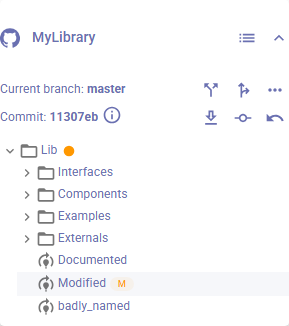
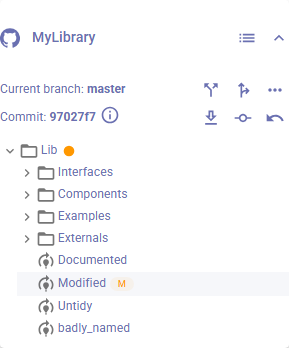
Two more documentation images, and one that cannot be taken from here
settings-reference-7 wanted the Code Review page reporting *layout* findings,
which nothing in the fixture broke. It now holds Lib.Untidy - an import after a
declaration and three public sections where one would do - and the repository's
own settings turn the two layout rules on, so the page reports "does not have
its import statements before the rest of the class definition" and "contains
more than 1 public section" against a class whose names and documentation are
fine. That is the distinction the settings documentation is drawing.

file-monitoring-1 wanted the refresh button with changes waiting behind it: the
monitor is started and three files are edited on disk from outside MLQT, which
is what the red badge counts.

git-operations-6 was tried and abandoned, with something learnt. The merge
dialog's ready-to-merge phase needs a clean working copy, and committing the
fixture's change through git at the very end is not enough - MLQT holds the
working-copy status it last read, and only a VCS operation in the application
makes it read again. That is reasonable behaviour and it leaves no route to the
picture from a screenshot run, so it stays a photograph and the backlog says why.

41 of the 53 images are now generated. The 12 that are not: two need Dymola, six
need an SVN server, one is an SVN-only settings section, one is the merge phase
above, and two are on disk referenced by nothing.

diff --git a/MLQT.Journeys/DocumentationScreenshots.cs b/MLQT.Journeys/DocumentationScreenshots.cs
@@ -60,6 +60,9 @@ public class DocumentationScreenshots(TestHostFixture host) : IDisposable
     /// </remarks>
     private LibraryFixture? _library;
 
+    /// <summary>The repository MLQT knows the fixture by, for the scenes that drive services.</summary>
+    private string? _repositoryId;
+
     public void Dispose() => _library?.Dispose();
 
     /// <summary>Where to write them, or null when nobody asked.</summary>
@@ -127,6 +130,9 @@ public class DocumentationScreenshots(TestHostFixture host) : IDisposable
         await RepositorySettingsAsync(page);
         await GitOperationsAsync(page);
         await AddingARepositoryAsync(page);
+
+        // Last, because it leaves changes waiting that nothing else wants to see.
+        await PendingChangesAsync(page);
     }
 
     // ---------------------------------------------------------------- the scenes
@@ -168,6 +174,12 @@ public class DocumentationScreenshots(TestHostFixture host) : IDisposable
 
         // The formatting-exclusion toggle, in the second group beside the annotations button.
         await ShotAroundAsync(page, Right(page).Locator(".mud-button-group-root").Nth(1), "settings-reference-5");
+
+        // The layout rules reporting, which is a different picture from the one above: a class whose
+        // names and documentation are fine and whose sections are not.
+        await SelectAClassAsync(page, "Untidy");
+        await ShotAsync(page, "settings-reference-7");
+        await SelectAClassAsync(page);
 
         // code-review-5, the Finding Details dialog, is not taken here and cannot be: it opens only
         // for a finding that carries Details, and a style rule does not produce one - the dialog's
@@ -329,6 +341,33 @@ public class DocumentationScreenshots(TestHostFixture host) : IDisposable
     }
 
     /// <summary>
+    /// The refresh button with changes waiting behind it.
+    /// </summary>
+    /// <remarks>
+    /// The badge is the file monitor's count, so the files have to be changed the way the monitor
+    /// hears about it - written on disk by something that is not MLQT - and the monitor has to be
+    /// running, which the screenshot run turns off when it adds the repository so that nothing moves
+    /// under the earlier pictures.
+    /// </remarks>
+    private async Task PendingChangesAsync(IPage page)
+    {
+        var monitor = host.Services.GetRequiredService<IFileMonitoringService>();
+        monitor.StartMonitoring(_repositoryId!, _library!.RepositoryPath);
+
+        foreach (var file in new[] { "Documented.mo", "Interfaces/Pin.mo", "Components/Load.mo" })
+            _library.TouchOutsideMlqt(file);
+
+        // The monitor debounces, and the badge is drawn when it reports - so this waits for the
+        // number to appear rather than for a length of time.
+        await page.Locator(".mud-badge").First.WaitForAsync(new LocatorWaitForOptions { Timeout = 30_000 });
+        await page.WaitForTimeoutAsync(1500);
+
+        await ShotAroundAsync(page, LeftToolbar(page), "file-monitoring-1");
+
+        monitor.StopMonitoring(_repositoryId!);
+    }
+
+    /// <summary>
     /// The Add Repository dialog, in both of its two ways of naming a repository.
     /// </summary>
     /// <remarks>
@@ -342,7 +381,8 @@ public class DocumentationScreenshots(TestHostFixture host) : IDisposable
         await OpenTabAsync(page, CodeTab);
 
         await ShellReadiness.WaitUntilClickableAsync(page);
-        await LeftToolbar(page).Locator("button").First.ClickAsync();
+        var addRepository = LeftToolbar(page).Locator("button").First;
+        await addRepository.ClickAsync();
         await page.WaitForTimeoutAsync(1500);
 
         var dialog = page.Locator(".mud-dialog").Last;
@@ -364,6 +404,10 @@ public class DocumentationScreenshots(TestHostFixture host) : IDisposable
         await ShotOfAsync(dialog, "getting-started-6");
 
         await CloseTheDialogAsync(page);
+
+        // The mouseleave the dialog swallowed, as everywhere else a dialog opens under the pointer.
+        await addRepository.HoverAsync();
+        await page.Mouse.MoveAsync(0, 0, new MouseMoveOptions { Steps = 8 });
     }
 
     /// <summary>
@@ -379,9 +423,12 @@ public class DocumentationScreenshots(TestHostFixture host) : IDisposable
     /// position, and why a changed row order shows up as a picture of the wrong dialog rather than as
     /// an error. Each shot asserts the dialog opened, so that failure is loud.</para>
     ///
-    /// <para><b>git-operations-6 and -10 are not here</b>: the ready-to-merge phase of the merge
-    /// dialog needs a clean working copy, which would cost the uncommitted change every other picture
-    /// uses, and the revision diff needs two revisions of a file the fixture only has one of.</para>
+    /// <para><b>git-operations-6 is not here.</b> The merge dialog's ready-to-merge phase needs a
+    /// clean working copy, and committing the fixture's change - through git, at the end, after
+    /// everything that wanted it - is not enough: MLQT holds the working-copy status it last read,
+    /// and nothing short of a VCS operation *in the application* makes it read again, which is
+    /// reasonable behaviour and leaves no way to reach the picture from here. It stays a
+    /// photograph.</para>
     /// </remarks>
     private async Task GitOperationsAsync(IPage page)
     {
@@ -660,6 +707,7 @@ public class DocumentationScreenshots(TestHostFixture host) : IDisposable
 
         var added = await repositories.AddRepositoryAsync(_library!.RepositoryPath, name: "MyLibrary", startMonitoring: false);
         Assert.True(added.Success, added.ErrorMessage);
+        _repositoryId = added.Repository!.Id;
 
         // Adding a repository *discovers* its libraries; loading them is a second step, because the
         // Add Repository dialog lets the user choose which of them to open. Null means all of them,
@@ -702,8 +750,9 @@ public class DocumentationScreenshots(TestHostFixture host) : IDisposable
     /// <para>Written as <c>.mlqt/settings.json</c> before the repository is added, which is where
     /// <c>RepositoryService</c> reads it from. The findings in the picture are then the application's
     /// own, produced by its own pipeline from its own configuration - not a list this class handed
-    /// it. Three rules, chosen because the fixture library breaks all three and because they are the
-    /// ones a new user turns on first.</para>
+    /// it. Five rules, chosen because the fixture library breaks all five: three about names and
+    /// descriptions, which are the ones a new user turns on first, and two about layout, which are
+    /// what settings-reference.md shows being reported.</para>
     /// </remarks>
     private void EnableSomeRules()
     {
@@ -715,7 +764,9 @@ public class DocumentationScreenshots(TestHostFixture host) : IDisposable
               "RuleSeverities": {
                 "MLQT.Doc.ClassDescription": "Warning",
                 "MLQT.Doc.ParameterDescription": "Error",
-                "MLQT.Naming.Convention": "Warning"
+                "MLQT.Naming.Convention": "Warning",
+                "MLQT.Style.ImportStatementsFirst": "Warning",
+                "MLQT.Style.OneOfEachSection": "Warning"
               }
             }
             """);

diff --git a/MLQT.Journeys/LibraryFixture.cs b/MLQT.Journeys/LibraryFixture.cs
@@ -114,7 +114,7 @@ public sealed class LibraryFixture : IDisposable
             end Lib;
             """);
 
-        Write("package.order", "Interfaces\nComponents\nExamples\nExternals\nDocumented\nModified\nBadlyNamed\n");
+        Write("package.order", "Interfaces\nComponents\nExamples\nExternals\nDocumented\nModified\nBadlyNamed\nUntidy\n");
 
         Write("Documented.mo", """
             within Lib;
@@ -145,6 +145,30 @@ public sealed class LibraryFixture : IDisposable
             equation
               der(z) = -z;
             end badly_named;
+            """);
+
+        // Laid out the way the layout rules would rather it was not: an import after a declaration,
+        // and three public sections where one would do. Nothing here is a *naming* or *documentation*
+        // problem, so it only reports when those rules are switched on - which is the distinction the
+        // settings documentation is trying to draw when it shows this class.
+        Write("Untidy.mo", """
+            within Lib;
+            model Untidy "A class the layout rules have something to say about"
+              Real a "The first state";
+              import Lib.Interfaces.Pin;
+            public
+              Real b "The second state";
+            protected
+              Real c "One nobody outside can see";
+            public
+              Real d "A third state, in a second public section";
+            equation
+              der(a) = -a;
+              der(b) = -b;
+              der(c) = -c;
+              der(d) = -d;
+              annotation(Documentation(info="<html><p>Untidy on purpose.</p></html>"));
+            end Untidy;
             """);
 
         WriteInterfaces();
@@ -356,6 +380,15 @@ public sealed class LibraryFixture : IDisposable
         // is about.
         repo.Branches.Add("feature/pump-curves", first);
     }
+
+    /// <summary>Touches a file under the library, the way a user editing it outside MLQT would.</summary>
+    /// <remarks>
+    /// A trailing comment: it changes the file's bytes and its timestamp, which is what the monitor
+    /// watches, and leaves the Modelica in it valid, which is what everything downstream needs.
+    /// </remarks>
+    public void TouchOutsideMlqt(string relativePath) =>
+        File.AppendAllText(Path.Combine(LibraryPath, relativePath),
+                           "\n// Edited outside MLQT.\n");
 
     public void Dispose() => Delete(RepositoryPath);
 

diff --git a/Design/roadmap.md b/Design/roadmap.md
@@ -645,7 +645,7 @@ B84–B86 the seventh, B87–B88 the eighth, B89–B90 the ninth, B91–B92 the 
 | B149 | **A window restored onto a monitor that is no longer there cannot be reached** | phase 7 review 2026-09-11 | ⭐⭐ | S | `WindowPlacement.IsUsable` accepts any saved position between -10,000 and 20,000 and says so: "deliberately loose... does not try to check it against the current monitor layout, which changes while the application is closed". The consequence is the ordinary laptop case: dock, open MLQT on the second screen, close it, undock — and the next launch restores the window at x=3000 on a single 1920-wide display, where it is invisible and its title bar cannot be grabbed. **Nothing tells the user what happened and nothing documents the way out**, which is to delete `windowPlacement` from `settings.json`. MAUI restored placement itself, so this is a behaviour the host swap took over and made ours. **Open.** Photino exposes the monitor list (`MainMonitor` at minimum), so clamping a restored window onto a visible work area is tractable now in a way the comment assumed it was not — and `WindowGeometry` already has the arithmetic and the tests. **✅ shipped (2026-09-11)** — the remembered placement is checked against the monitor layout once the window exists, which is the first moment Photino will answer. A window with less than 120x30 of itself on any work area is moved to the middle of the first one, **keeping the size the user chose** and only shrinking it to fit — losing a deliberately large window is a poor answer to a problem caused by unplugging a cable. It says so in the log, because a window that quietly appears somewhere else is the kind of thing people doubt their own memory about. The arithmetic is in `WindowGeometry` where it is tested without a display: a screen arranged left of or above the primary is still a screen, a sliver off the edge is not enough to grab, and no monitors at all means nothing to judge against rather than "move everything". |
 | B150 | **Neither installer is ever tested doing the thing every user after the first does** | phase 7 review 2026-09-11 | ⭐⭐ | S | Both release jobs prove a great deal about a **first** install: they install what they built, check the tree, run all three tools, run the GUI's 16 probes from where they landed, and uninstall. Neither ever installs **over an existing install**, which is the path every user takes from the second release onwards. It is also where the interesting failures live: files held open by a running MLQT, a `.deb` upgrading in place, and the `AppId` whose comment claims it "is what makes an upgrade replace the previous install instead of sitting beside it" — a claim nothing checks. **Open**, and cheap in the jobs that already exist: install the same artefact twice, the second time over the first, and assert one entry in Apps & Features (or one `dpkg` package) and a working tool afterwards. **✅ shipped (2026-09-11)** — both release jobs now install the artefact a second time over the first, before uninstalling. Windows asserts **exactly one MLQT in Apps & Features**, which is what the `AppId` is for and what nothing had ever checked, and that the tool still runs afterwards; Linux re-installs through `apt --reinstall` and asserts one `mlqt` package in `dpkg`, which is stricter than a file copy — a conffile it cannot merge or a maintainer script that assumed nothing was there fails here. Installing the same artefact twice is not a real version-to-version upgrade, but it exercises what actually goes wrong: files in use, a duplicated registration, a half-written tree. |
 | B151 | **A class whose resource analysis throws disappears from the graph in silence** | phase 7 review 2026-09-11 | ⭐ | S | **Pre-existing, not from this branch** (both lines date to the initial commit), found while reviewing phase 7. `GraphBuilder`'s dependency pass wraps each `AddModelUsesModel` in `catch { }`, and its LoadSelector pass-2 wraps a whole class's resource analysis the same way — so a class that throws contributes no resources and no edges, and nothing anywhere records that it happened. This is the exact shape the phase fixed twice in the checking path, each time because the totals moved between runs with nothing to explain it: `LibraryCheckSession` now reports a `CheckFailure` for a class that cannot be checked, and `GraphAnalysisRunner` does the same for an analysis that throws — both with comments saying the failure must not vanish. The graph builder never got the same treatment. **Open**, and the fix is the established one rather than a new idea. **✅ shipped (2026-09-11)** — both dependency passes, in both methods. The edge add is now **asked rather than thrown and caught**: `AddModelUsesModel` throws when either end is missing and a reference to a class outside the loaded set is the ordinary case, so the catch was swallowing normal operation and everything else with it. The LoadSelector pass reports through the `onModelFailed` callback both methods already take, which is what the per-class check and the graph analyses do with the same failure. Tested for the case that matters: a reference to an unloaded class is not a failure, the loaded one beside it still gets its edge, and the scoped pass the app uses after a VCS operation behaves the same. |
-| B152 | **Every screenshot in the documentation predates every feature in it** | doc review 2026-09-11 | ⭐⭐ | M | All 53 images under `Documentation/Images` were committed on **2026-03-17**, in the initial public commit, and not one has been touched since. Everything phases 1-6 added is therefore absent from the pictures — the Metrics tab, baseline status on findings, suppression, the coverage trend — and phase 7 replaced the host underneath them, so the window they show is MAUI's. The text is in far better shape than the images: an audit against the code found **every one of the 31 rule ids documented**, every CLI option in `cli.md` (and none it does not accept), and every settable style property in `settings-reference.md`. **The mechanism to regenerate them exists and is proven.** `MLQT.Journeys/DocumentationScreenshots` drives the real components in a real browser through `MLQT.TestHost` — the same apparatus the journeys use — and writes a PNG per tab when `MLQT_DOC_SCREENSHOTS` names a directory. The Settings tab already comes out usable. So the pictures become reproducible, free of personal data and local paths, and regenerable when the UI changes rather than re-taken by hand. **✅ The state setup is done (2026-09-11).** The harness now does what a user does: it writes the repository's `.mlqt/settings.json` with three rules on, creates a project, adds the repository, loads the libraries it discovers, runs the check and selects a class — and the Code Review page comes out showing real findings ("2 Findings to review", `Lib.badly_named` missing a description and not PascalCase) produced by the application's own pipeline from its own configuration. Four steps were needed and each was a fact about the product worth knowing: adding a repository *discovers* libraries but does not load them, loading them does not check them, MLQT ships with every rule off, and in repository mode `MainLayout` renders one `LibraryBrowser` per repository — which is why loading a library through `ILibraryDataService` alone left **every page showing it except the tree** — the Metrics tab reports the 4 classes correctly while the left-hand browser stays blank, so what is missing is whatever a user's project and repository give that panel, not the load itself. Each image still needs its own arrangement: a diff open, a snapshot recorded for the trend, a dialog on screen. **✅ The fixture library is enriched (2026-09-11)**, which was the next limit: four flat classes that referenced nothing and used no files meant the Dependencies tab correctly reported "No models will be affected" and External Resources correctly reported none. `LibraryFixture` now writes fourteen classes over four sub-packages that use each other three levels deep, and every resource reference kind MLQT recognises — a `Bitmap` in an icon, `loadResource` defaults, a `loadSelector` dialog annotation, a `modelica://` image in documentation and the four external-function annotations — with the files they point at written to `Resources/`. One is deliberately absent, because "missing" is a state that page exists to show. The External Resources tab now comes out with its type filters, its tree and a **Missing (1)** warning chip, and the Metrics tab reports 14 classes across package/model/function/connector. Two facts the enrichment taught: resource *edges* are built by the dependency pass while the parse trees are in hand, so `AnalyzeResourcesAsync` must run after `EnsureDependenciesAnalyzedAsync` or it indexes an empty graph; and the tree is lazy, so clicking a node's label selects it and leaves its children out of the DOM entirely — the arrow is what loads them. Transient snackbars have to be waited out or dismissed, or they sit across the picture. **Two kinds of image this cannot produce**, and they are the ones phase 7 changed: anything showing the *window* — title bar, icon, taskbar, a native file dialog — because the test host is a browser, and nothing can drive the Photino window automatically (7a says why: a CDP-driven WebView2 is work that cannot be carried to WebKitGTK). Those stay photographs. Noted alongside: `getting-started-10.png` and `settings-reference-2.png` are on disk and referenced by nothing, so either a section lost its picture or the picture outlived its section. **✅ 39 of the 53 images are regenerated (2026-09-11)**, from the real UI, and the captions that no longer described the picture under them were rewritten with them. `DocumentationScreenshots` now walks the application the way the documentation does: every tab, the close-ups (the toolbars, the repository header rows, the tree with its status chips), both views of the left panel, the Edit Repository Details dialog and three sections of it, the Add Repository dialog in both of its tabs, and eight of the ten Git dialogs. Each is written as the file the markdown already links to, so nothing in the text had to move. **What stays a photograph, and why**: the two Dymola pictures (`code-review-4`, and `code-review-5` — the Finding Details dialog opens only for a finding carrying Details, which a style rule does not produce), the six SVN ones (no server), `settings-reference-4` (the SVN branch directories section is only rendered for an SVN repository), `git-operations-6` (the ready-to-merge phase needs a clean working copy, and the uncommitted change is what every other picture uses), `settings-reference-7` (wants findings from formatting rules, which needs a class laid out badly on purpose), `file-monitoring-1` (wants pending changes from a running monitor) and anything showing the window frame. **Two fixture facts made the rest possible**: a second commit, so the history is a history and one file in it is modified rather than added; and a second branch, so the switch-branch, merge and pull-request dialogs have somewhere to point. And one path fact: MLQT prints the full path of what it describes, so the fixture repository is written under the shared documents folder for these runs — a temp directory named after a GUID under a developer's profile would have gone into the manual. |
+| B152 | **Every screenshot in the documentation predates every feature in it** | doc review 2026-09-11 | ⭐⭐ | M | All 53 images under `Documentation/Images` were committed on **2026-03-17**, in the initial public commit, and not one has been touched since. Everything phases 1-6 added is therefore absent from the pictures — the Metrics tab, baseline status on findings, suppression, the coverage trend — and phase 7 replaced the host underneath them, so the window they show is MAUI's. The text is in far better shape than the images: an audit against the code found **every one of the 31 rule ids documented**, every CLI option in `cli.md` (and none it does not accept), and every settable style property in `settings-reference.md`. **The mechanism to regenerate them exists and is proven.** `MLQT.Journeys/DocumentationScreenshots` drives the real components in a real browser through `MLQT.TestHost` — the same apparatus the journeys use — and writes a PNG per tab when `MLQT_DOC_SCREENSHOTS` names a directory. The Settings tab already comes out usable. So the pictures become reproducible, free of personal data and local paths, and regenerable when the UI changes rather than re-taken by hand. **✅ The state setup is done (2026-09-11).** The harness now does what a user does: it writes the repository's `.mlqt/settings.json` with three rules on, creates a project, adds the repository, loads the libraries it discovers, runs the check and selects a class — and the Code Review page comes out showing real findings ("2 Findings to review", `Lib.badly_named` missing a description and not PascalCase) produced by the application's own pipeline from its own configuration. Four steps were needed and each was a fact about the product worth knowing: adding a repository *discovers* libraries but does not load them, loading them does not check them, MLQT ships with every rule off, and in repository mode `MainLayout` renders one `LibraryBrowser` per repository — which is why loading a library through `ILibraryDataService` alone left **every page showing it except the tree** — the Metrics tab reports the 4 classes correctly while the left-hand browser stays blank, so what is missing is whatever a user's project and repository give that panel, not the load itself. Each image still needs its own arrangement: a diff open, a snapshot recorded for the trend, a dialog on screen. **✅ The fixture library is enriched (2026-09-11)**, which was the next limit: four flat classes that referenced nothing and used no files meant the Dependencies tab correctly reported "No models will be affected" and External Resources correctly reported none. `LibraryFixture` now writes fourteen classes over four sub-packages that use each other three levels deep, and every resource reference kind MLQT recognises — a `Bitmap` in an icon, `loadResource` defaults, a `loadSelector` dialog annotation, a `modelica://` image in documentation and the four external-function annotations — with the files they point at written to `Resources/`. One is deliberately absent, because "missing" is a state that page exists to show. The External Resources tab now comes out with its type filters, its tree and a **Missing (1)** warning chip, and the Metrics tab reports 14 classes across package/model/function/connector. Two facts the enrichment taught: resource *edges* are built by the dependency pass while the parse trees are in hand, so `AnalyzeResourcesAsync` must run after `EnsureDependenciesAnalyzedAsync` or it indexes an empty graph; and the tree is lazy, so clicking a node's label selects it and leaves its children out of the DOM entirely — the arrow is what loads them. Transient snackbars have to be waited out or dismissed, or they sit across the picture. **Two kinds of image this cannot produce**, and they are the ones phase 7 changed: anything showing the *window* — title bar, icon, taskbar, a native file dialog — because the test host is a browser, and nothing can drive the Photino window automatically (7a says why: a CDP-driven WebView2 is work that cannot be carried to WebKitGTK). Those stay photographs. Noted alongside: `getting-started-10.png` and `settings-reference-2.png` are on disk and referenced by nothing, so either a section lost its picture or the picture outlived its section. **✅ 41 of the 53 images are regenerated (2026-09-11)**, from the real UI, and the captions that no longer described the picture under them were rewritten with them. `DocumentationScreenshots` now walks the application the way the documentation does: every tab, the close-ups (the toolbars, the repository header rows, the tree with its status chips), both views of the left panel, the Edit Repository Details dialog and three sections of it, the Add Repository dialog in both of its tabs, and eight of the ten Git dialogs. Each is written as the file the markdown already links to, so nothing in the text had to move. **What stays a photograph, and why**: the two Dymola pictures (`code-review-4`, and `code-review-5` — the Finding Details dialog opens only for a finding carrying Details, which a style rule does not produce), the six SVN ones (no server), `settings-reference-4` (the SVN branch directories section is only rendered for an SVN repository), and `git-operations-6`. That last one was **tried and abandoned with something learnt**: the merge dialog's ready-to-merge phase needs a clean working copy, and committing the fixture's change through git at the very end is not enough, because MLQT holds the working-copy status it last read and only a VCS operation *in the application* makes it read again — reasonable behaviour, and no way through from a screenshot run. Two that looked unreachable were reached: `settings-reference-7` (the fixture gained `Lib.Untidy`, an import after a declaration and three public sections, and the repository's settings turned the two layout rules on, so the page reports "does not have its import statements before the rest of the class definition" and "contains more than 1 public section") and `file-monitoring-1` (the monitor is started and three files are edited on disk from outside MLQT, which is what the red badge counts). And anything showing the window frame. **Two fixture facts made the rest possible**: a second commit, so the history is a history and one file in it is modified rather than added; and a second branch, so the switch-branch, merge and pull-request dialogs have somewhere to point. And one path fact: MLQT prints the full path of what it describes, so the fixture repository is written under the shared documents folder for these runs — a temp directory named after a GUID under a developer's profile would have gone into the manual. |
 | B153 | **The MCP server grew 22 tools since anything counted them** | doc review 2026-09-11 | ⭐ | S | `Documentation/mcp-server.md` said "60+ tools"; there are **82**. The groups it lists are still right and the full list it points at — `MLQT.McpServer/README.md` — names all but one of them, so this was a number going stale rather than a capability going undocumented. **✅ fixed (2026-09-11)**, along with `MLQT_PHOTINO_LOG`, the desktop host's own logging switch, which nothing told a user about — it is now in `troubleshooting.md` beside `MLQT_LOG_CONSOLE`, with the reason it is silent by default. **Still open: `GetServerInfo` is in neither document.** A tool an agent can call and no document mentions is the shape this backlog keeps naming, and the count above is only correct until the next tool lands — so the durable fix is a test over the tool list, the way `RuleCatalog` is held to its docs. |
 | B154 | **A journey fails about one full-suite run in four, always the same one** | ✅ fixed 2026-09-11 | ⭐⭐ | S | `TabNavigationJourney.MovingThroughEveryTabAndBack_RaisesNothing` timed out after 30s clicking a tab, and Playwright reported the element "visible, enabled and stable" while the click never completed. **The trace named it** (B148's first use): the click was intercepted by a `mud-overlay-scrim` belonging to a `mud-dialog-container` — a **modal progress dialog**, covering the tab strip. The dialog is the product working correctly. Opening the **Metrics** tab starts the deferred analysis if any class is loaded (`MetricsDashboard.EnsureAnalysisStarted`), `MainLayout` raises its non-closable "Running style checking" dialog while that runs, and the *next* click — the fifth tab, Settings — lands on the scrim. Nothing a test can do closes it; it closes when the work finishes. **Why it was intermittent and why the suite mattered**: journeys share one host, and `AppState` and `ILibraryDataService` are singletons, so whether the Metrics tab finds anything loaded — and whether `HasStyleCheckingRun` is already set — depends entirely on what ran before. That is also why the journey never failed on its own. **The fix is to wait rather than to force**: `ShellReadiness.WaitUntilClickableAsync` moves the pointer off the strip, waits for any popover to close and then waits for the scrim to go, which is what a user does. Forcing the click would have sailed through a real overlay too, and that is a defect worth failing on. One helper now, in place of the private `DismissTooltipsAsync` that `TabNavigationJourney` and `SettingsJourney` each had: both were right about tooltips and neither knew about dialogs. **Six consecutive full-suite runs green** afterwards, against about one in three or four before; two of the six took twice as long, which is the wait doing its job. |
 | B155 | **The revision diff may be comparing against nothing** | doc screenshots 2026-09-11 | ⭐⭐ | S | Found by photographing it. In the VCS History dialog, clicking a file in a commit's changed-files popover opens `Diff: <file> @ <revision>`, which compares that revision against the working copy. Against the **first** commit of a file the fixture later changed, the dialog reports `+7 / -1 lines` and lists the *first* revision's seven lines as additions — the two lines the second commit added are not in it at all, and the working copy is where they live. Either the working-copy side is not being read, or the two sides are the wrong way round; against an unchanged file it says "File is identical", which is right and says nothing about which. **A question, not a diagnosis**: nobody has stepped through `ShowFileDiffAsync` yet. Worth doing before `git-operations-10.png` is trusted as documentation, because that picture is now this behaviour. |
